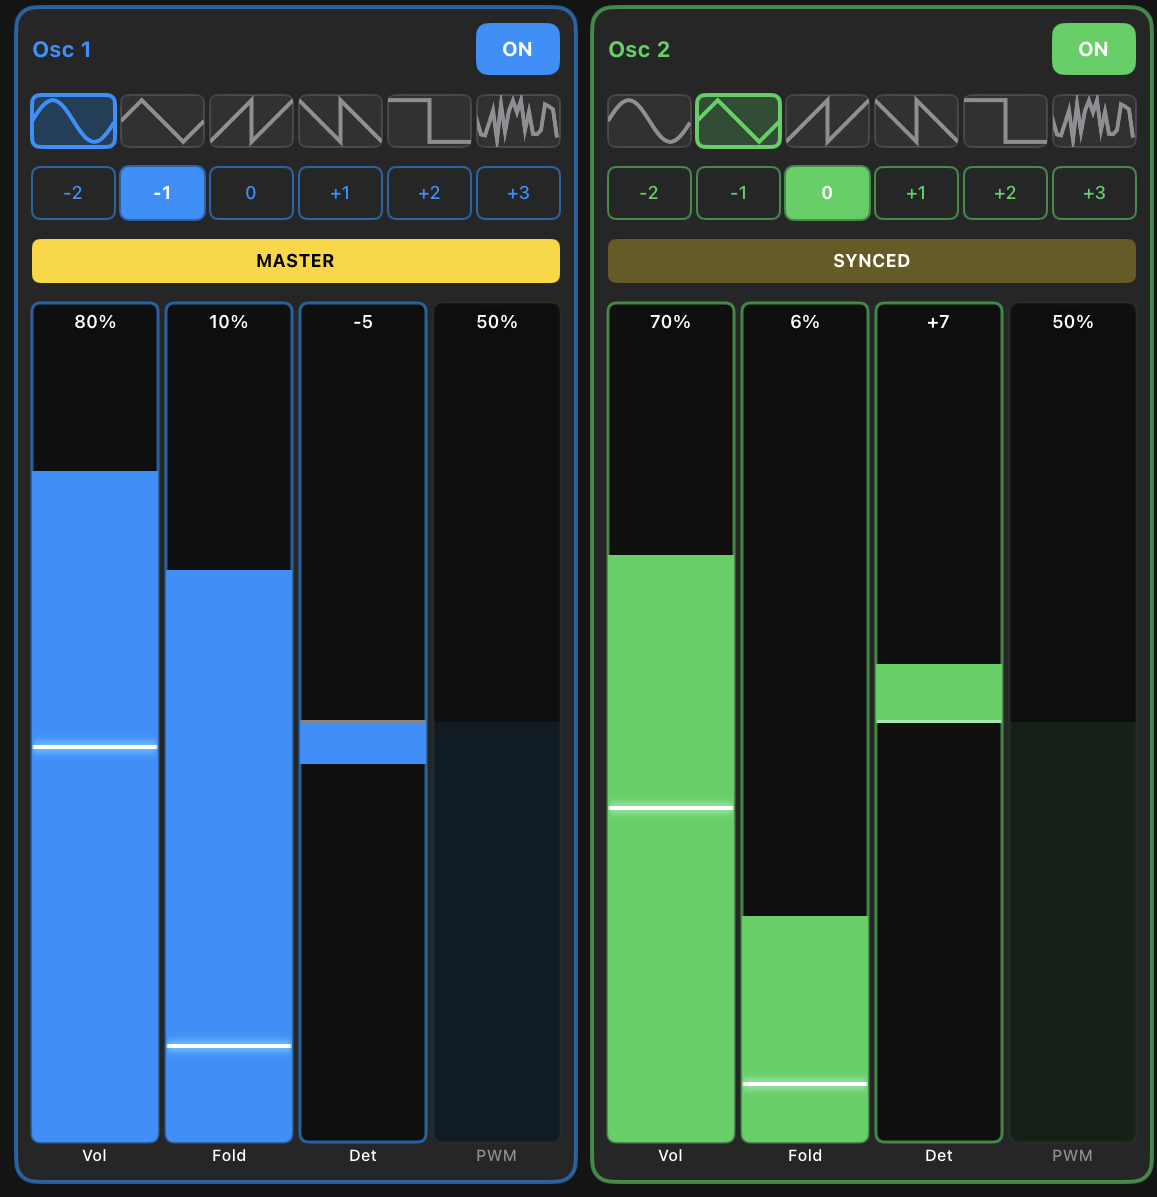
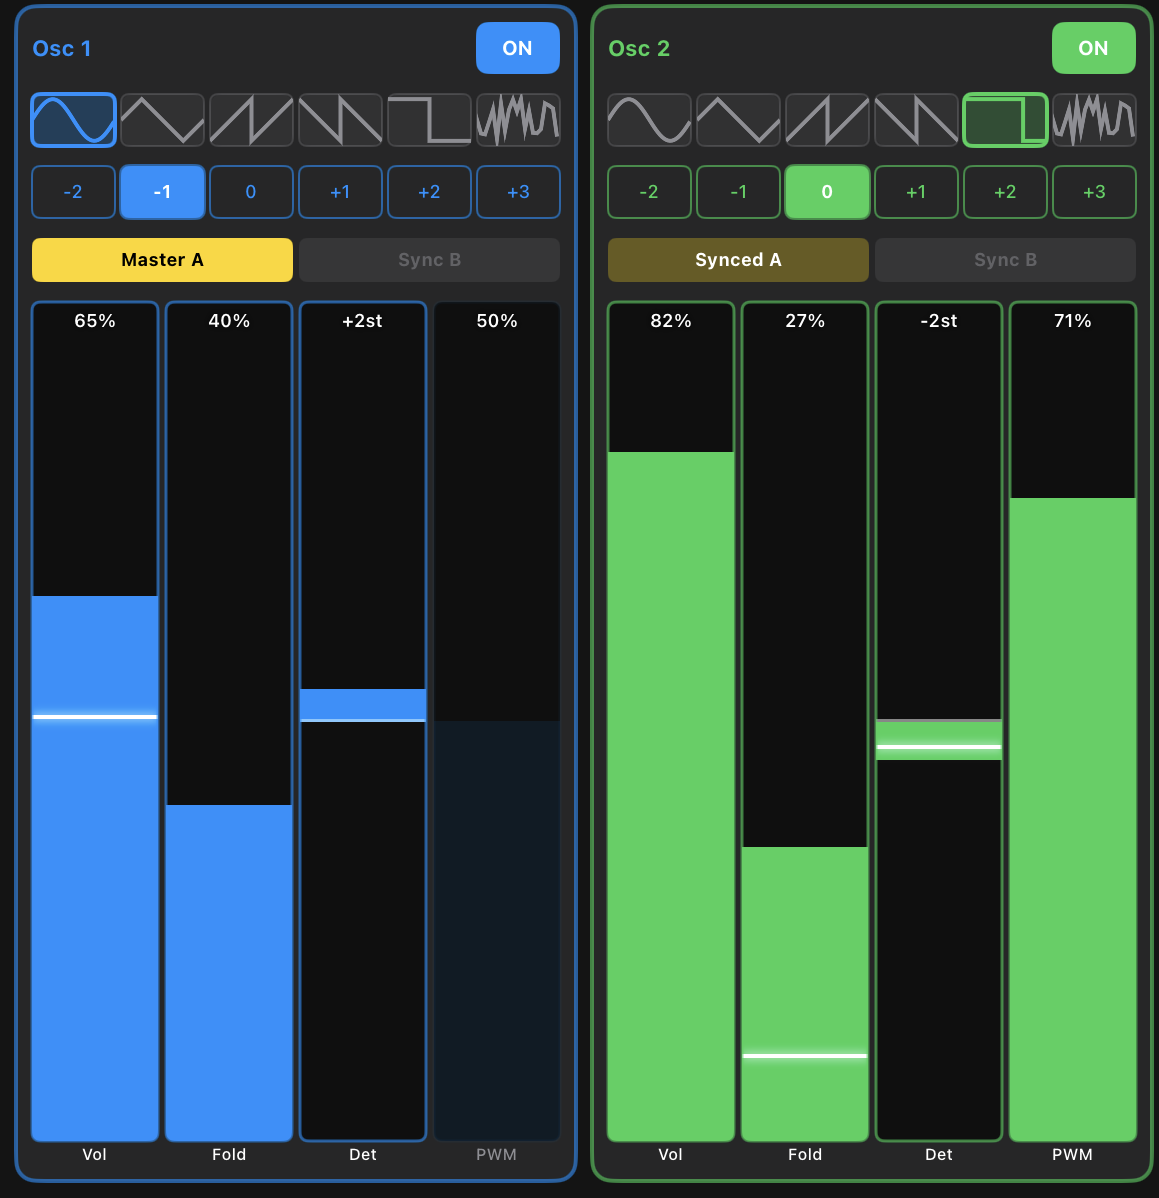
Image updates

diff --git a/support.html b/support.html
@@ -3,8 +3,8 @@
 <head>
 <meta charset="UTF-8">
 <meta name="viewport" content="width=device-width, initial-scale=1.0">
-<title>Support — Swift Software</title>
-<meta name="description" content="Get in touch with Swift Software for support, feedback or general questions about Dante and our other apps.">
+<title>Support — Swift SW</title>
+<meta name="description" content="Get in touch with Swift SW for support, feedback or general questions about Dante and our other apps.">
 <link rel="preconnect" href="https://fonts.googleapis.com">
 <link rel="preconnect" href="https://fonts.gstatic.com" crossorigin>
 <link href="https://fonts.googleapis.com/css2?family=Oswald:wght@700&display=swap" rel="stylesheet">
@@ -295,7 +295,7 @@
         <path d="M 4 2 L 4 22 L 36 22" stroke="#9a9aa6" stroke-width="1.25" stroke-linecap="round" stroke-linejoin="round"/>
         <path d="M 6 12 Q 8.75 0 11.5 12 Q 14.25 24 17 12 Q 18.5 6 20 12 Q 21.5 18 23 12 Q 25.75 0 28.5 12 Q 31.25 24 34 12" stroke="#00D9F5" stroke-width="2.25" stroke-linecap="round" stroke-linejoin="round"/>
       </svg>
-      Swift Software
+      Swift SW
     </a>
     <div class="topnav-links">
       <a href="index.html">Home</a>
@@ -361,7 +361,7 @@
         </div>
 
         <!-- Optional: Formspree subject line in your inbox -->
-        <input type="hidden" name="_subject" value="Swift Software contact form">
+        <input type="hidden" name="_subject" value="Swift SW contact form">
 
         <button type="submit" class="submit-btn">Send Message</button>
       </form>
@@ -381,9 +381,9 @@
         <path d="M 4 2 L 4 22 L 36 22" stroke="#9a9aa6" stroke-width="1.25" stroke-linecap="round" stroke-linejoin="round"/>
         <path d="M 6 12 Q 8.75 0 11.5 12 Q 14.25 24 17 12 Q 18.5 6 20 12 Q 21.5 18 23 12 Q 25.75 0 28.5 12 Q 31.25 24 34 12" stroke="#00D9F5" stroke-width="2.25" stroke-linecap="round" stroke-linejoin="round"/>
       </svg>
-      Swift Software
+      Swift SW
     </a>
-    <p style="margin-top: 8px;">&copy; 2026 Swift Software Pty Ltd. All rights reserved.</p>
+    <p style="margin-top: 8px;">&copy; 2026 Swift SW. All rights reserved.</p>
   </div>
 </footer>
 

diff --git a/index.html b/index.html
@@ -538,7 +538,7 @@
         <path d="M 4 2 L 4 22 L 36 22" stroke="#9a9aa6" stroke-width="1.25" stroke-linecap="round" stroke-linejoin="round"/>
         <path d="M 6 12 Q 8.75 0 11.5 12 Q 14.25 24 17 12 Q 18.5 6 20 12 Q 21.5 18 23 12 Q 25.75 0 28.5 12 Q 31.25 24 34 12" stroke="#00D9F5" stroke-width="2.25" stroke-linecap="round" stroke-linejoin="round"/>
       </svg>
-      Swift Software
+      Swift SW
     </a>
     <div class="topnav-links">
       <a href="index.html" class="active">Home</a>
@@ -559,7 +559,7 @@
   <p class="hero-sub">A 4-oscillator monophonic synthesizer for iOS and macOS — AUv3 plugin and desktop app.</p>
   <p class="hero-question">What if every oscillator had full control… not just the basics?</p>
   <div class="hero-image">
-    <img src="images/oscillators.png" alt="Dante synthesizer main oscillator interface showing four colored oscillator panels">
+    <img src="images/oscillators.jpg" alt="Dante synthesizer main oscillator interface showing four colored oscillator panels">
   </div>
 </header>
 
@@ -690,7 +690,7 @@
       <span class="section-eyebrow" style="color: var(--osc-4);">Built-in Song Player</span>
       <h2 class="section-title">Inspiration, instantly.</h2>
       <p class="section-lead" style="margin: 0 auto 16px;">
-        The standalone iPad, iPhone and Mac apps include a built-in music player featuring public domain tracks — designed for quick experimentation and sound auditioning. MIDI input is also fully supported, so you can drive Dante from any controller or sequencer.
+        The standalone iPad, iPhone and Mac apps include a built-in music player featuring public domain tracks — designed for quick experimentation and sound auditioning. MIDI input is also supported, so you can drive Dante from any controller or sequencer.
       </p>
       <p style="color: var(--text-dim); margin-bottom: 16px;">
         Load a preset, hit play, and hear how it sits in real music — without setting up a Host.
@@ -787,7 +787,7 @@
       <text x="132" y="34" font-size="40" fill="#F5A044">T</text>
       <text x="172" y="34" font-size="40" fill="#B14BE0">E</text>
     </svg>
-    <p>&copy; 2026 Swift Software Pty Ltd. All rights reserved.</p>
+    <p>&copy; 2026 Swift SW. All rights reserved.</p>
   </div>
 </footer>
 